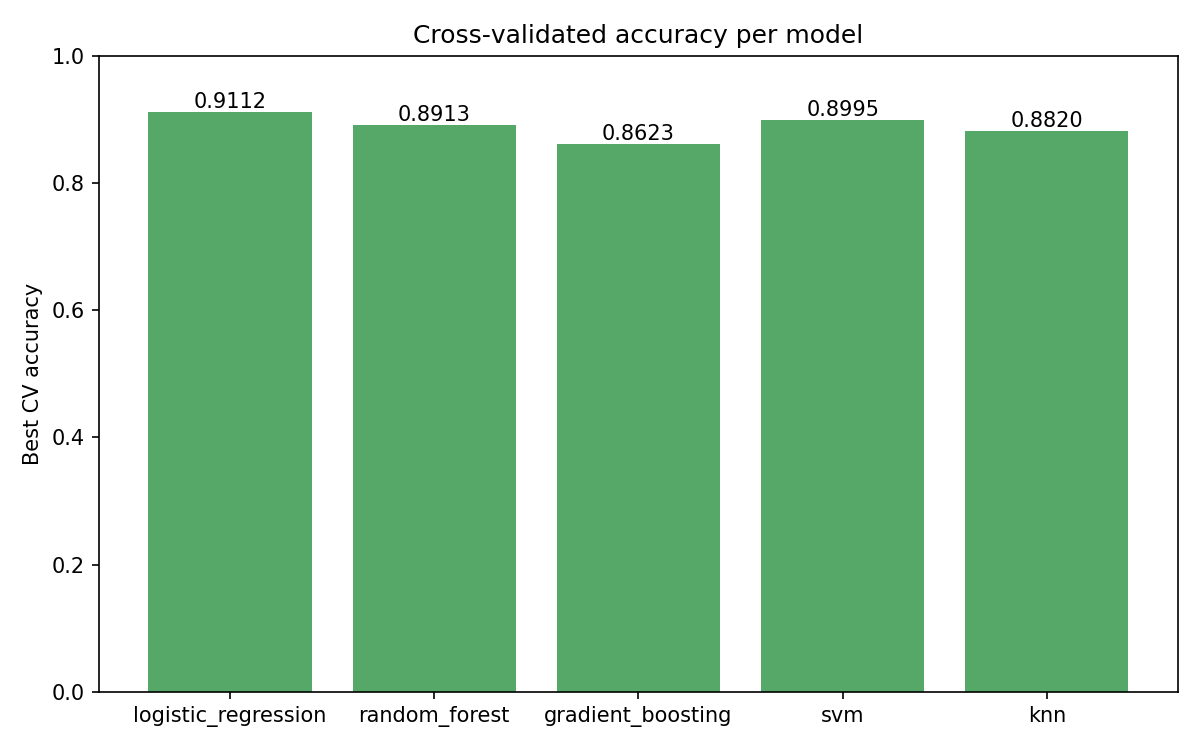
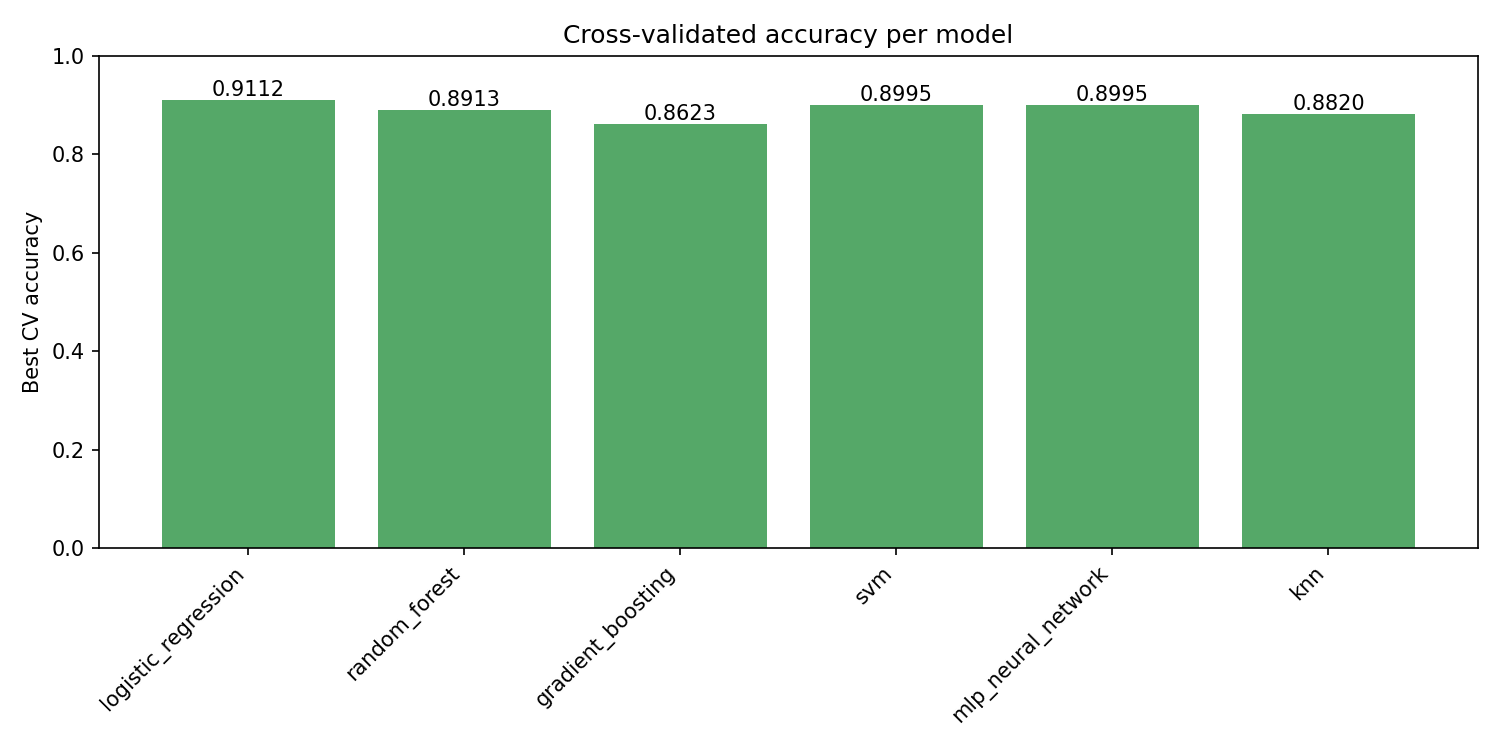
neural network added

diff --git a/model_design.py b/model_design.py
@@ -46,6 +46,7 @@ from sklearn.neighbors import KNeighborsClassifier
 from sklearn.pipeline import Pipeline
 from sklearn.preprocessing import OneHotEncoder, StandardScaler
 from sklearn.svm import SVC
+from sklearn.neural_network import MLPClassifier
 
 # ---------------------------------------------------------------------------
 
@@ -312,6 +313,22 @@ def _build_model_candidates() -> Dict[str, Tuple[Pipeline, Dict[str, list[object
                 "classifier__class_weight": [None, "balanced"],
             },
         ),
+        "mlp_neural_network": (
+            Pipeline([
+                ("preprocess", preproc),
+                ("classifier", MLPClassifier(
+                    random_state=42,
+                    early_stopping=True,   # stop when validation score stops improving
+                )),
+            ]),
+            {
+                "classifier__hidden_layer_sizes": [(50,), (100,), (50, 50)],
+                "classifier__alpha": [1e-4, 1e-3],
+                "classifier__learning_rate_init": [1e-3, 1e-2],
+                "classifier__max_iter": [200, 500],
+                "classifier__batch_size": ["auto"],   # keep default behavior
+            },
+        ),
         "knn": (
             Pipeline([
                 ("preprocess", preproc),
@@ -379,22 +396,34 @@ def _plot_cv_accuracies(
     results: Dict[str, Tuple[Pipeline, float]],
     out_path: Path,
 ) -> None:
-    """Bar chart of the CV accuracies of all five models."""
+    """Bar chart of the CV accuracies of all models."""
     names = list(results.keys())
     scores = [acc for _, acc in results.values()]
 
-    plt.figure(figsize=(8, 5))
+    # Make the figure wider – 10 inches wide, 5 inches tall (adjust as needed)
+    plt.figure(figsize=(10, 5))
+
     bars = plt.bar(names, scores, color="#55a868")
     plt.ylim(0.0, 1.0)
     plt.ylabel("Best CV accuracy")
     plt.title("Cross‑validated accuracy per model")
+
+    # Rotate x‑axis labels so they don’t sit on top of each other
+    plt.xticks(rotation=45, ha="right")
+
+    # Annotate each bar with its numeric value
     for bar, acc in zip(bars, scores, strict=True):
-        plt.annotate(f"{acc:.4f}",
-                     (bar.get_x() + bar.get_width() / 2, acc),
-                     ha="center", va="bottom")
+        plt.annotate(
+            f"{acc:.4f}",
+            (bar.get_x() + bar.get_width() / 2, acc),
+            ha="center",
+            va="bottom",
+        )
+
+    # Ensure nothing is cut off
     plt.tight_layout()
     out_path.parent.mkdir(parents=True, exist_ok=True)
-    plt.savefig(out_path, dpi=150)
+    plt.savefig(str(out_path), dpi=150)
     plt.close()
     log.info("CV‑accuracy plot saved to %s", out_path)
 
